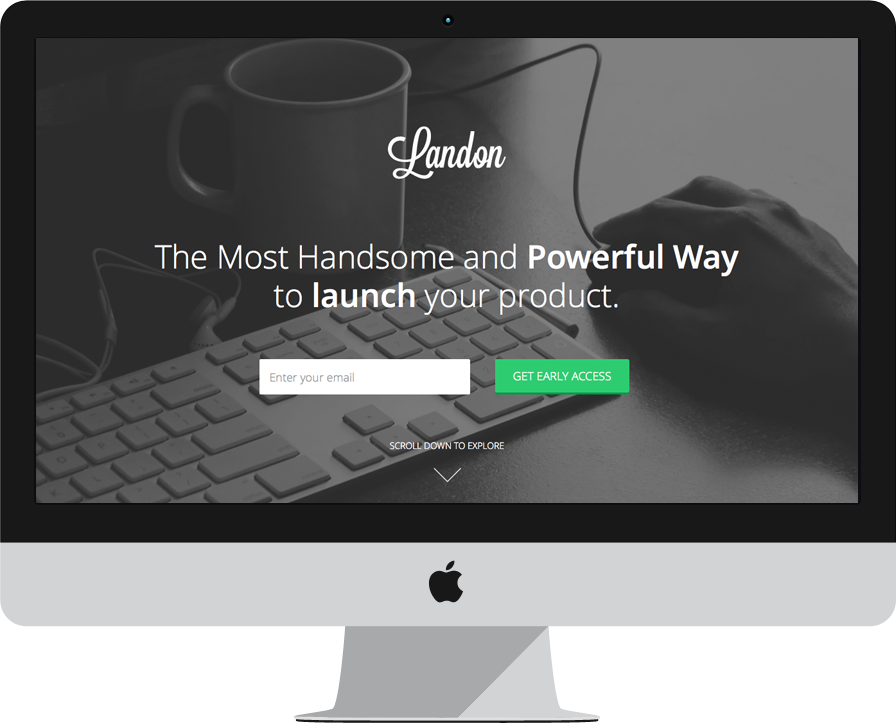
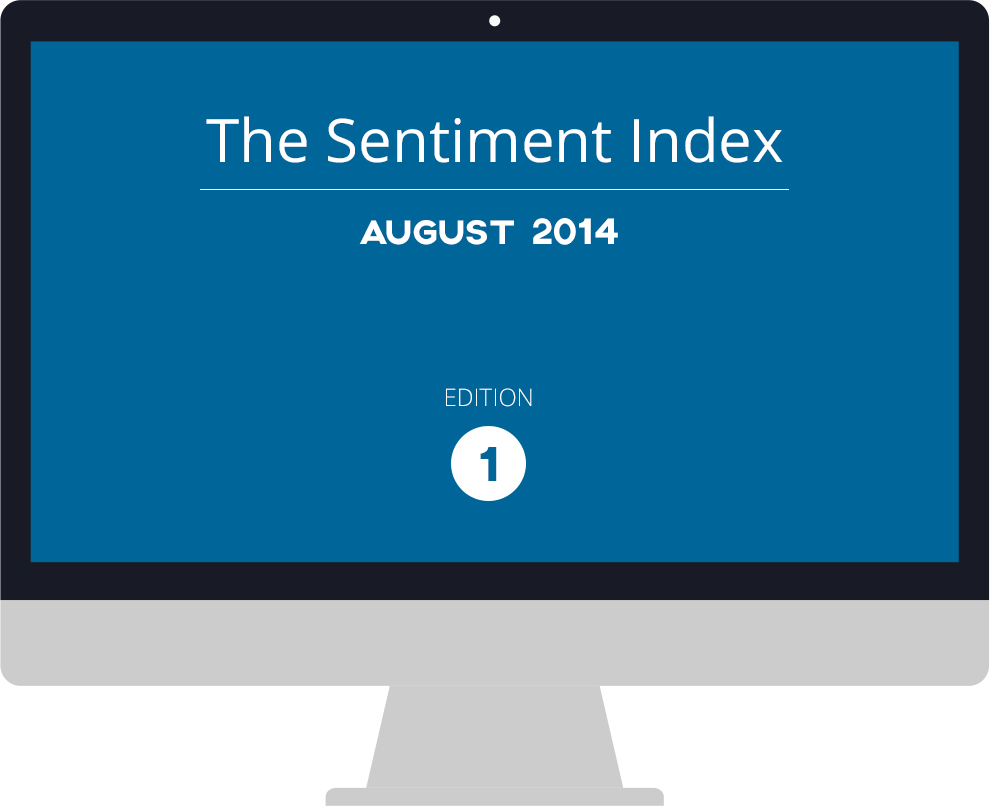
Update on Day 2
Day 2 Update

diff --git a/sentiment/signup.html b/sentiment/signup.html
@@ -5,7 +5,7 @@
 	<meta charset="utf-8">
 	<meta name="viewport" content="width=device-width, initial-scale=1.0">
 	<meta name="description" content="">
-	<title>LANDON - Free Bootstrap 3 Landing Page</title>
+	<title>The Sentiment Index</title>
 	 
 	<link href="css/bootstrap.css" rel="stylesheet">
 	 
@@ -19,38 +19,36 @@
 	<link rel="shortcut icon" href="images/favicon.png">
 	<script src="js/pace.js"></script>
  
-	<link href='http://fonts.googleapis.com/css?family=Open+Sans:300,600' rel='stylesheet' type='text/css'>
+	<link href='http://fonts.googleapis.com/css?family=Open+Sans:300,400,600' rel='stylesheet' type='text/css'>
 </head>
 
 <body>
 	<div class="preloader"></div>
-	
+
     <! -- ******************** MASTHEAD SECTION ******************** -->	
+	<div class="logo"> <a href="index.html#"><img src="images/logo.png" alt="logo"></a></div>
+
+
 	<main id="top" class="masthead" role="main">
 		<div class="container">
-			<div class="logo"> <a href="index.html#"><img src="images/logo.png" alt="logo"></a>
-			</div>
  
-			<h1>The Most Handsome and <strong>Powerful Way</strong> <br>
-			to <strong>launch</strong> your product.</h1>
+			<h1>See what the dealmakers see.</h1>
+			<h3>Sentiment analysis on the early stage funding market directly from top investors and industry insiders.</h3>
  
 			<div class="row">
-				<div class="col-md-6 col-sm-12 col-md-offset-3 subscribe">
+				<div class="col-md-12 col-sm-12 subscribe">
 					<form class="form-horizontal" role="form" action="subscribe.php" id="subscribeForm" method="POST">
 						<div class="form-group">
-							<div class="col-md-7 col-sm-6 col-sm-offset-1 col-md-offset-0">
-								<input class="form-control input-lg" name="email" type="email" id="address" placeholder="Enter your email" data-validate="validate(required, email)" required="required">
-							</div>
-							<div class="col-md-5 col-sm-4">
-								<button type="submit" class="btn btn-success btn-lg">GET EARLY ACCESS</button>
+							<div class="col-md-12 col-sm-12">
+								<button type="submit" class="btn btn-success btn-lg">GET FREE REPORT</button>
 							</div>
 						</div>
 					</form>
 					<span id="result" class="alertMsg"></span> </div>
 				</div>
  
-				<a href="index.html#explore" class="scrollto">
-				<p>SCROLL DOWN TO EXPLORE</p>
+				<a href="signup.html#explore" class="scrollto">
+				<p>LEARN MORE</p>
 				<p class="scrollto--arrow"><img src="images/scroll_down.png" alt="scroll down arrow"></p>
 				</a>
 		</div><! --/container -->
@@ -61,76 +59,48 @@
 	<div class="container" id="explore">
  
 		<div class="section-title">
-			<h2>Showcase your product with style.</h2>
-			<h4>This theme is ideal for your Web Project or your App.</h4>
-		</div>
-
-		<section class="row heroimg breath">
-			<div class="col-md-12 text-center"> 
-				<img src="images/flat-mockup-template.png" alt="flat-mockup-template">
-			</div>
-		</section><! --/section -->
- 
-		<div class="section-title">
-			<h2>More information about your product.</h2>
+			<h2>Know what's next in the early stage market.</h2>
 			<h4>Always detail some important features.</h4>
 		</div>
 		
 		<section class="row features">
-			<div class="col-sm-6 col-md-3">
+			<div class="col-sm-8 col-md-4">
 				<div class="thumbnail"> 
 					<img src="images/service_01.png" alt="analytics-icon">
 					<div class="caption">
-						<h3>Important Feature 1</h3>
-						<p>Lorem Ipsum is simply dummy text of the printing and typesetting industry.</p>
+						<h3>Survey</h3>
+						<p>Each month, we survey a select group of top investors and early-stage market insiders from across the world to understand what they have seen and what they expect.</p>
 					</div>
 				</div><! --/thumbnail -->
-			</div><! --/col-sm-6-->
+			</div><! --/col-sm-8-->
  
-			<div class="col-sm-6 col-md-3">
+			<div class="col-sm-8 col-md-4">
 				<div class="thumbnail"> 
 					<img src="images/service_02.png" alt="analytics-icon">
 					<div class="caption">
-						<h3>Important Feature 2</h3>
-						<p>Lorem Ipsum is simply dummy text of the printing and typesetting industry.</p>
+						<h3>Synthsize</h3>
+						<p>Data only has value when it is digestible and actionable. We break down the survey data to develop a comprehensive sentiment analysis of the early-stage funding market.</p>
 					</div>
 				</div><! --/thumbnail -->
-			</div><! --/col-sm-6-->
+			</div><! --/col-sm-8-->
  
-			<div class="col-sm-6 col-md-3">
+			<div class="col-sm-8 col-md-4">
 				<div class="thumbnail"> 
 					<img src="images/service_03.png" alt="analytics-icon">
 					<div class="caption">
-						<h3>Important Feature 3</h3>
-						<p>Lorem Ipsum is simply dummy text of the printing and typesetting industry.</p>
+						<h3>Sentiment</h3>
+						<p>You receive an in-depth report that cuts through the noise and gives you information you need to be make smarter, more informed investment and business decisions.</p>
 					</div>
 				</div><! --/thumbnail -->
-			</div><! --/col-sm-6-->
- 
-			<div class="col-sm-6 col-md-3">
-				<div class="thumbnail"> 
-					<img src="images/service_04.png" alt="analytics-icon">
-					<div class="caption">
-						<h3>Important Feature 4</h3>
-						<p>Lorem Ipsum is simply dummy text of the printing and typesetting industry.</p>
-					</div>
-				</div><! --/thumbnail -->
-			</div><! --/col-sm-6-->
+			</div><! --/col-sm-8->
 		</section><! --/section -->
- 
 
-	    <! -- ******************** CLIENTS SECTION ******************** -->	 
-		<div class="section-title">
-			<h2>Some of our clients</h2>
-			<h4>We work with different kind of brands</h4>
-		</div>
-	
-		<section class="row clientlogo breath">
-			<div class="col-md-12 text-center"> 
-				<img src="images/client-logos.png" alt="client-logos">
-			</div>
-		</section><! --/section -->
- 
+					<div class="col-md-12 text-center"> 
+						<a href="index.html#top" class="btn btn-success btn-lg gototop">GET EARLY ACCESS</a>
+					</div>
+			
+
+
 	</div><! --/container -->
  
 
@@ -138,31 +108,25 @@
 		<div class="highlight testimonials">
 			<div class="container">
 				<div class="section-title">
-					<h2>What our customers said</h2>
+					<h2>The Sentiment Index</h2>
 					<h4>Don't take our word. See our testimonials </h4>
 				</div>
 				
-				<section class="row breath">
-					<div class="col-md-6">
-						<div class="testblock">Lorem Ipsum is simply dummy text of the printing and typesetting industry. Lorem Ipsum has been the industry's standard dummy text ever since the 1500s, when an unknown printer took a galley of type and scrambled it to make a type specimen book. </div>
-						<div class="clientblock"> 
-							<img src="images/customer-img-1.jpg" alt=".">
-							<p><strong>John Doe</strong> <br>
-								Founder of <a href="index.html#">Blacktie.co</a>
-							</p>
-						</div>
-					</div><! --/col-md-6 -->
-					
-					<div class="col-md-6">
-						<div class="testblock">Lorem Ipsum is simply dummy text of the printing and typesetting industry. Lorem Ipsum has been the industry's standard dummy text ever since the 1500s, when an unknown printer took a galley of type and scrambled it to make a type specimen book. </div>
-						<div class="clientblock"> 
-							<img src="images/customer-img-2.jpg" alt=".">
-							<p><strong>Richard Sommer</strong> <br>
-								CEO of <a href="index.html#">Blacktie.co</a>
-							</p>
-						</div>
-					</div><! --/col-md-6 -->
-				</section><! --/section -->
+				<section class="row heroimg breath">
+			<div class="col-md-6 text-center"> 
+				<img src="images/flat-mockup-template.png" alt="flat-mockup-template">
+			</div>
+			<div class="col-md-6"> 
+				<h4>The Sentiment Index is a monthly report based on surveys conducted among leading early stage investors and influencers. Invest smarter and build your company faster by using the Sentiment Index to:</h4>
+				<ul>
+  					<li>Assess investor attitudes on the early stage market landscape, including factors like deal pricing, company quality and emerging sectors</li>
+  					<li>Understand the market expectations of top investors and gauge probable future investment behavior</li>
+  					<li>Quantitatively judge the extent of investor bullishness or bearishness on the entire market and on individual verticals</li>
+  					<li>Forecast changes in the early stage funding market </li>
+				</ul>
+			</div>
+		</section><! --/section -->
+
  
 			</div><! --/container -->
 		</div><! --/highlight Testimonials -->
@@ -172,34 +136,27 @@
 		<div class="container">
  
 			<div class="section-title">
-				<h2>Honest pricing. No surprises.</h2>
+				<h2>Your First Report is Always Free</h2>
 				<h4>No contract. No risk. No credit card required. </h4>
 			</div>
 			<section class="row breath planpricing">
 			
-				<div class="col-md-4">
+				<div class="col-md-6">
 					<div class="pricing color1">
-						<div class="planname">Personal</div>
-						<div class="price"> <span class="curr">$</span>14<span class="per">/MO</span></div>
-						<div class="billing">Billed Annually</div>
+						<div class="planname">Sentiment Summary</div>
+						<div class="price"> <span class=</span>Free<span</span></div>
+						<div class="billing">Weekly Email Newsletter</div>
 					</div><! --/pricing -->
-				</div><! --/col-md-4-->
+				</div><! --/col-md-6-->
 				
-				<div class="col-md-4">
+				<div class="col-md-6">
 					<div class="pricing color2">
-						<div class="planname">Agency</div>
-						<div class="price"> <span class="curr">$</span>49<span class="per">/MO</span></div>
-						<div class="billing">Billed Annually</div>
+						<div class="planname">Sentiment Monthly Index</div>
+						<div class="price"> <span class="curr">$</span>79<span class="per">/MO</span></div>
+						<div class="billing">First Report Free</div>
 					</div><! --/pricing -->
-				</div><! --/col-md-4-->
+				</div><! --/col-md-6-->
 				
-				<div class="col-md-4">
-					<div class="pricing color3">
-						<div class="planname">Enterprise</div>
-						<div class="price"> <span class="curr">$</span>99<span class="per">/MO</span></div>
-						<div class="billing">Billed Annually</div>
-					</div><! --/pricing -->
-				</div><! --/col-md-4-->
 			</section><!-- /section planpricing -->
  
 
@@ -230,14 +187,19 @@
 	    <! -- ******************** FOOTER ******************** -->	  
 		<main class="footercta" role="main">
 			<div class="container">
-				<h1>The Most Simple & <strong>Powerful Way</strong> <br>
-					to <strong>launch</strong> your product</h1>
+				<h1>Subscribe to the Sentiment Summary</h1
+				<h1>Join thousands of investors and entrepreneurs who receive actionable and timely updates on the early stage market. Delivered each week to your inbox.</h1>
  
-				<div class="row">
-					<div class="col-md-12 breath text-center"> 
-						<a href="index.html#top" class="btn btn-success btn-lg gototop">GET EARLY ACCESS</a> 
-					</div>
-				</div>
+				<div class="col-md-6 col-sm-12 col-md-offset-3 subscribe">
+					<form class="form-horizontal" role="form" action="subscribe.php" id="subscribeForm" method="POST">
+						<div class="form-group">
+							<div class="col-md-7 col-sm-6 col-sm-offset-1 col-md-offset-0">
+								<input class="form-control input-lg" name="email" type="email" id="address" placeholder="Enter your email" data-validate="validate(required, email)" required="required">
+							</div>
+							<div class="col-md-5 col-sm-4">
+								<button type="submit" class="btn btn-success btn-lg">SUBSCRIBE</button>
+							</div>
+						</div>
 			</div><! --/container -->
 		</main><! --/main -->
  

diff --git a/sentiment/css/main.css b/sentiment/css/main.css
@@ -25,12 +25,12 @@ strong,b{
 	font-weight:600;
 	}
 
-h1{font-size:50px;line-height:60px;margin:25px 0;}
-h2{font-size:40px;font-weight:600;margin:15px 0;}
-h3{font-size:20px;margin:10px 0;font-weight:600;}
-h4{font-size:20px;margin:10px 0;}
-h5{font-size:28px;font-weight:600;margin:15px 0;color:#384047;}
-h6{font-size:16px;font-weight:600;margin:10px 0;color:#384047;}
+h1{font-size:36px;line-height:60px;font-weight:400;margin:25px 0; color: #333;}
+h2{font-size:40px;font-weight:600;margin:15px 0;color: #333;}
+h3{font-size:36px;margin:36px 0;font-weight:300;color: #333;}
+h4{font-size:20px;margin:10px 0;color: #333;}
+h5{font-size:28px;font-weight:600;margin:15px 0;color: #333;}
+h6{font-size:16px;font-weight:600;margin:10px 0;color: #333;}
 
 a{color:#5173bd;}
 a:hover,a:focus{color:#5173bd;}
@@ -82,7 +82,7 @@ a:hover,a:focus{color:#5173bd;}
 	position:absolute;
 	left:0px;
 	top:0px;
-	height:100%;
+	height:50%;
 	background:#61b5f0;
 	}
 	
@@ -108,7 +108,7 @@ a:hover,a:focus{color:#5173bd;}
 
 .masthead{
 	position:relative;
-	padding:80px 15px;
+	padding:40px 15px;
 	color:#FFF;
 	text-align:center;
 	text-shadow:0 1px 0 rgba(0,0,0,.1);
@@ -121,6 +121,7 @@ a:hover,a:focus{color:#5173bd;}
 	-moz-background-size:cover;
 	-o-background-size:cover;
 	background-size:cover;
+	height:500px;
 	}
 
 .masthead .container{
@@ -188,8 +189,14 @@ to {
 /*animation ends*/
 
 .logo {
-	padding: 45px 0;
-	text-align:center;
+padding-bottom: 45px;
+text-align: center;
+height: 50px;
+padding-top: 15px;
+}
+
+.logo img {
+	height: 30px;
 }
 .btn-large {
 	font-size:18px;
@@ -201,7 +208,7 @@ to {
 	background-image:none;
 	border: 0;
 	-webkit-box-shadow: 0 3px 0 rgba(2, 154, 67, 1);
-	box-shadow: 0 3px 0 rgba(2, 154, 67, 1);
+	box-shadow: 0 0px 0 rgba(2, 154, 67, 1);
 	line-height: 1.8;
 }
 .btn-success:hover, .btn-success:focus, .btn-success:active {
@@ -209,7 +216,7 @@ to {
 	color:#FFF;
 	border: 0;
 	-webkit-box-shadow: 0 3px 0 rgba(2, 139, 61, 1);
-	box-shadow: 0 3px 0 rgba(2, 139, 61, 1);
+	box-shadow: 0 0px 0 rgba(2, 139, 61, 1);
 }
 .btn-primary {
 	background-color: #2db6d8;
@@ -221,7 +228,7 @@ to {
 	color:#FFF!important;
 }
 .subscribe {
-	padding: 45px 0;
+	padding: 30px 0;
 }
 .alertMsg {
 	float: left;
@@ -313,6 +320,7 @@ to {
 }
 .heroimg img, .clientlogo img {
 	max-width:100%;
+	width: 500px;
 }
 /*========== 4. FEATURES ==============*/
 
@@ -443,10 +451,10 @@ to {
 	vertical-align: baseline;
 }
 .color1 {
-	background-color:#2ecc71;
+	background-color:#02779e;
 }
 .color2 {
-	background-color:#1abc9c;
+	background-color:#2ecc71;
 }
 .color3 {
 	background-color:#16a085;
